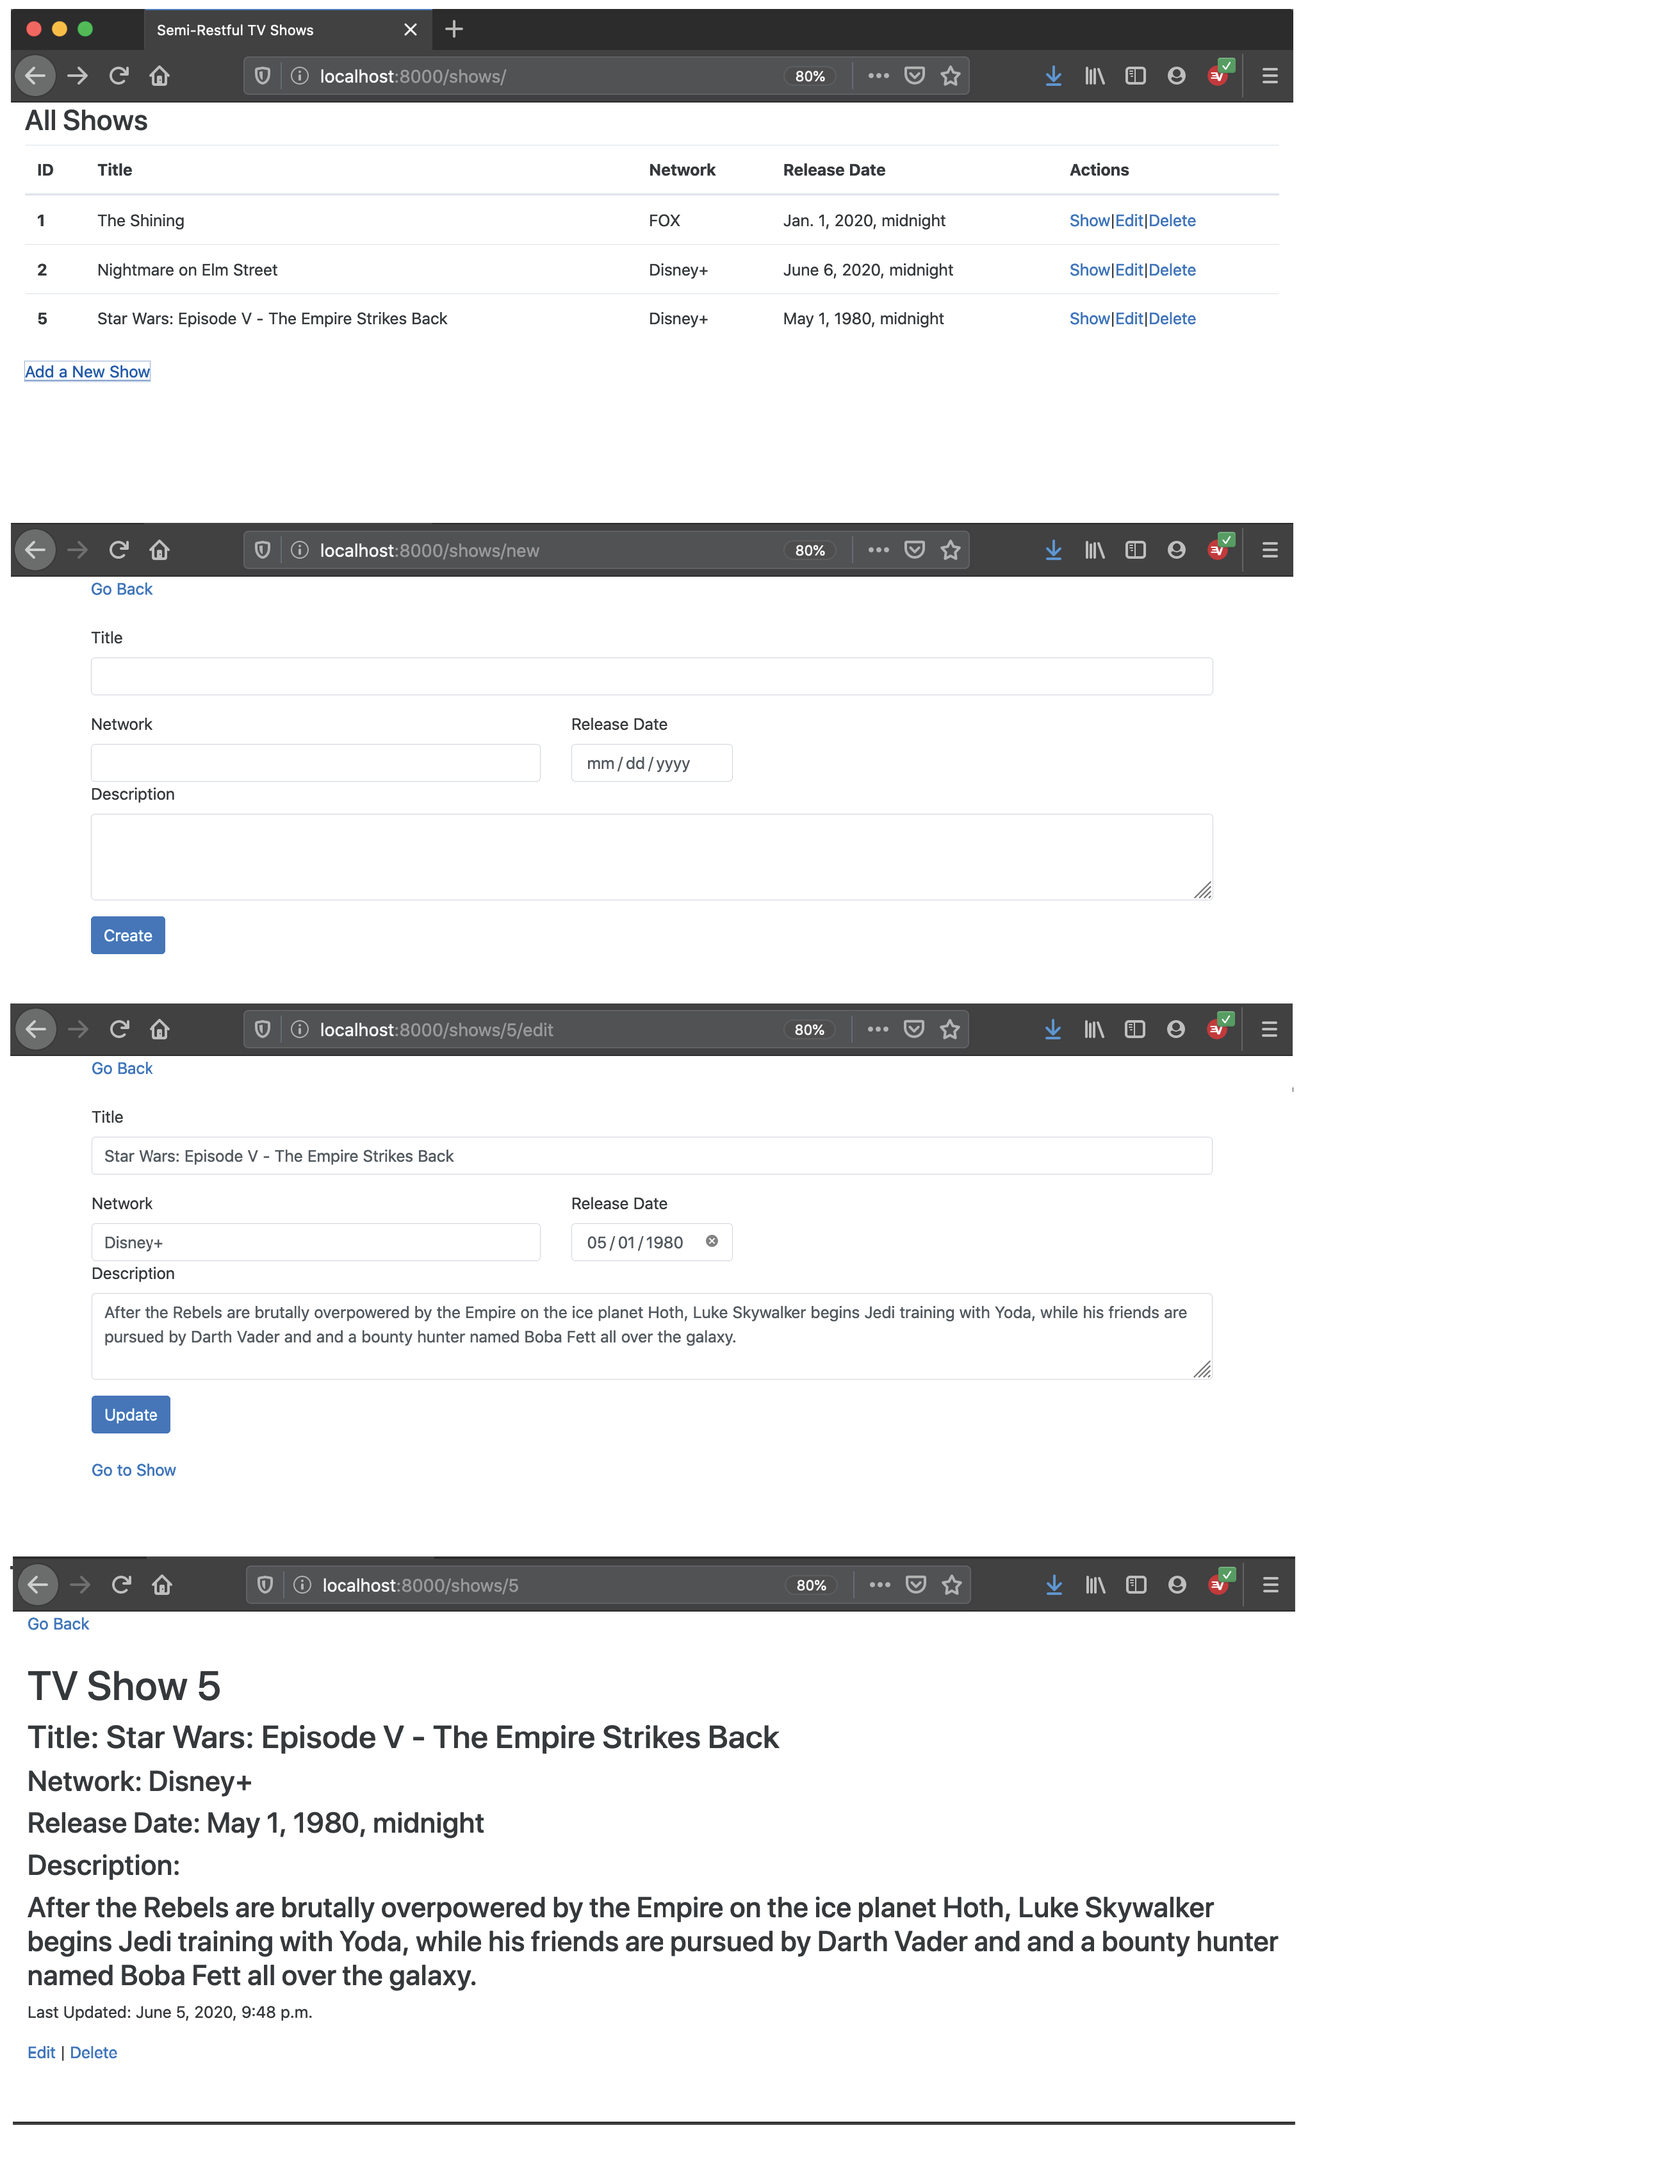
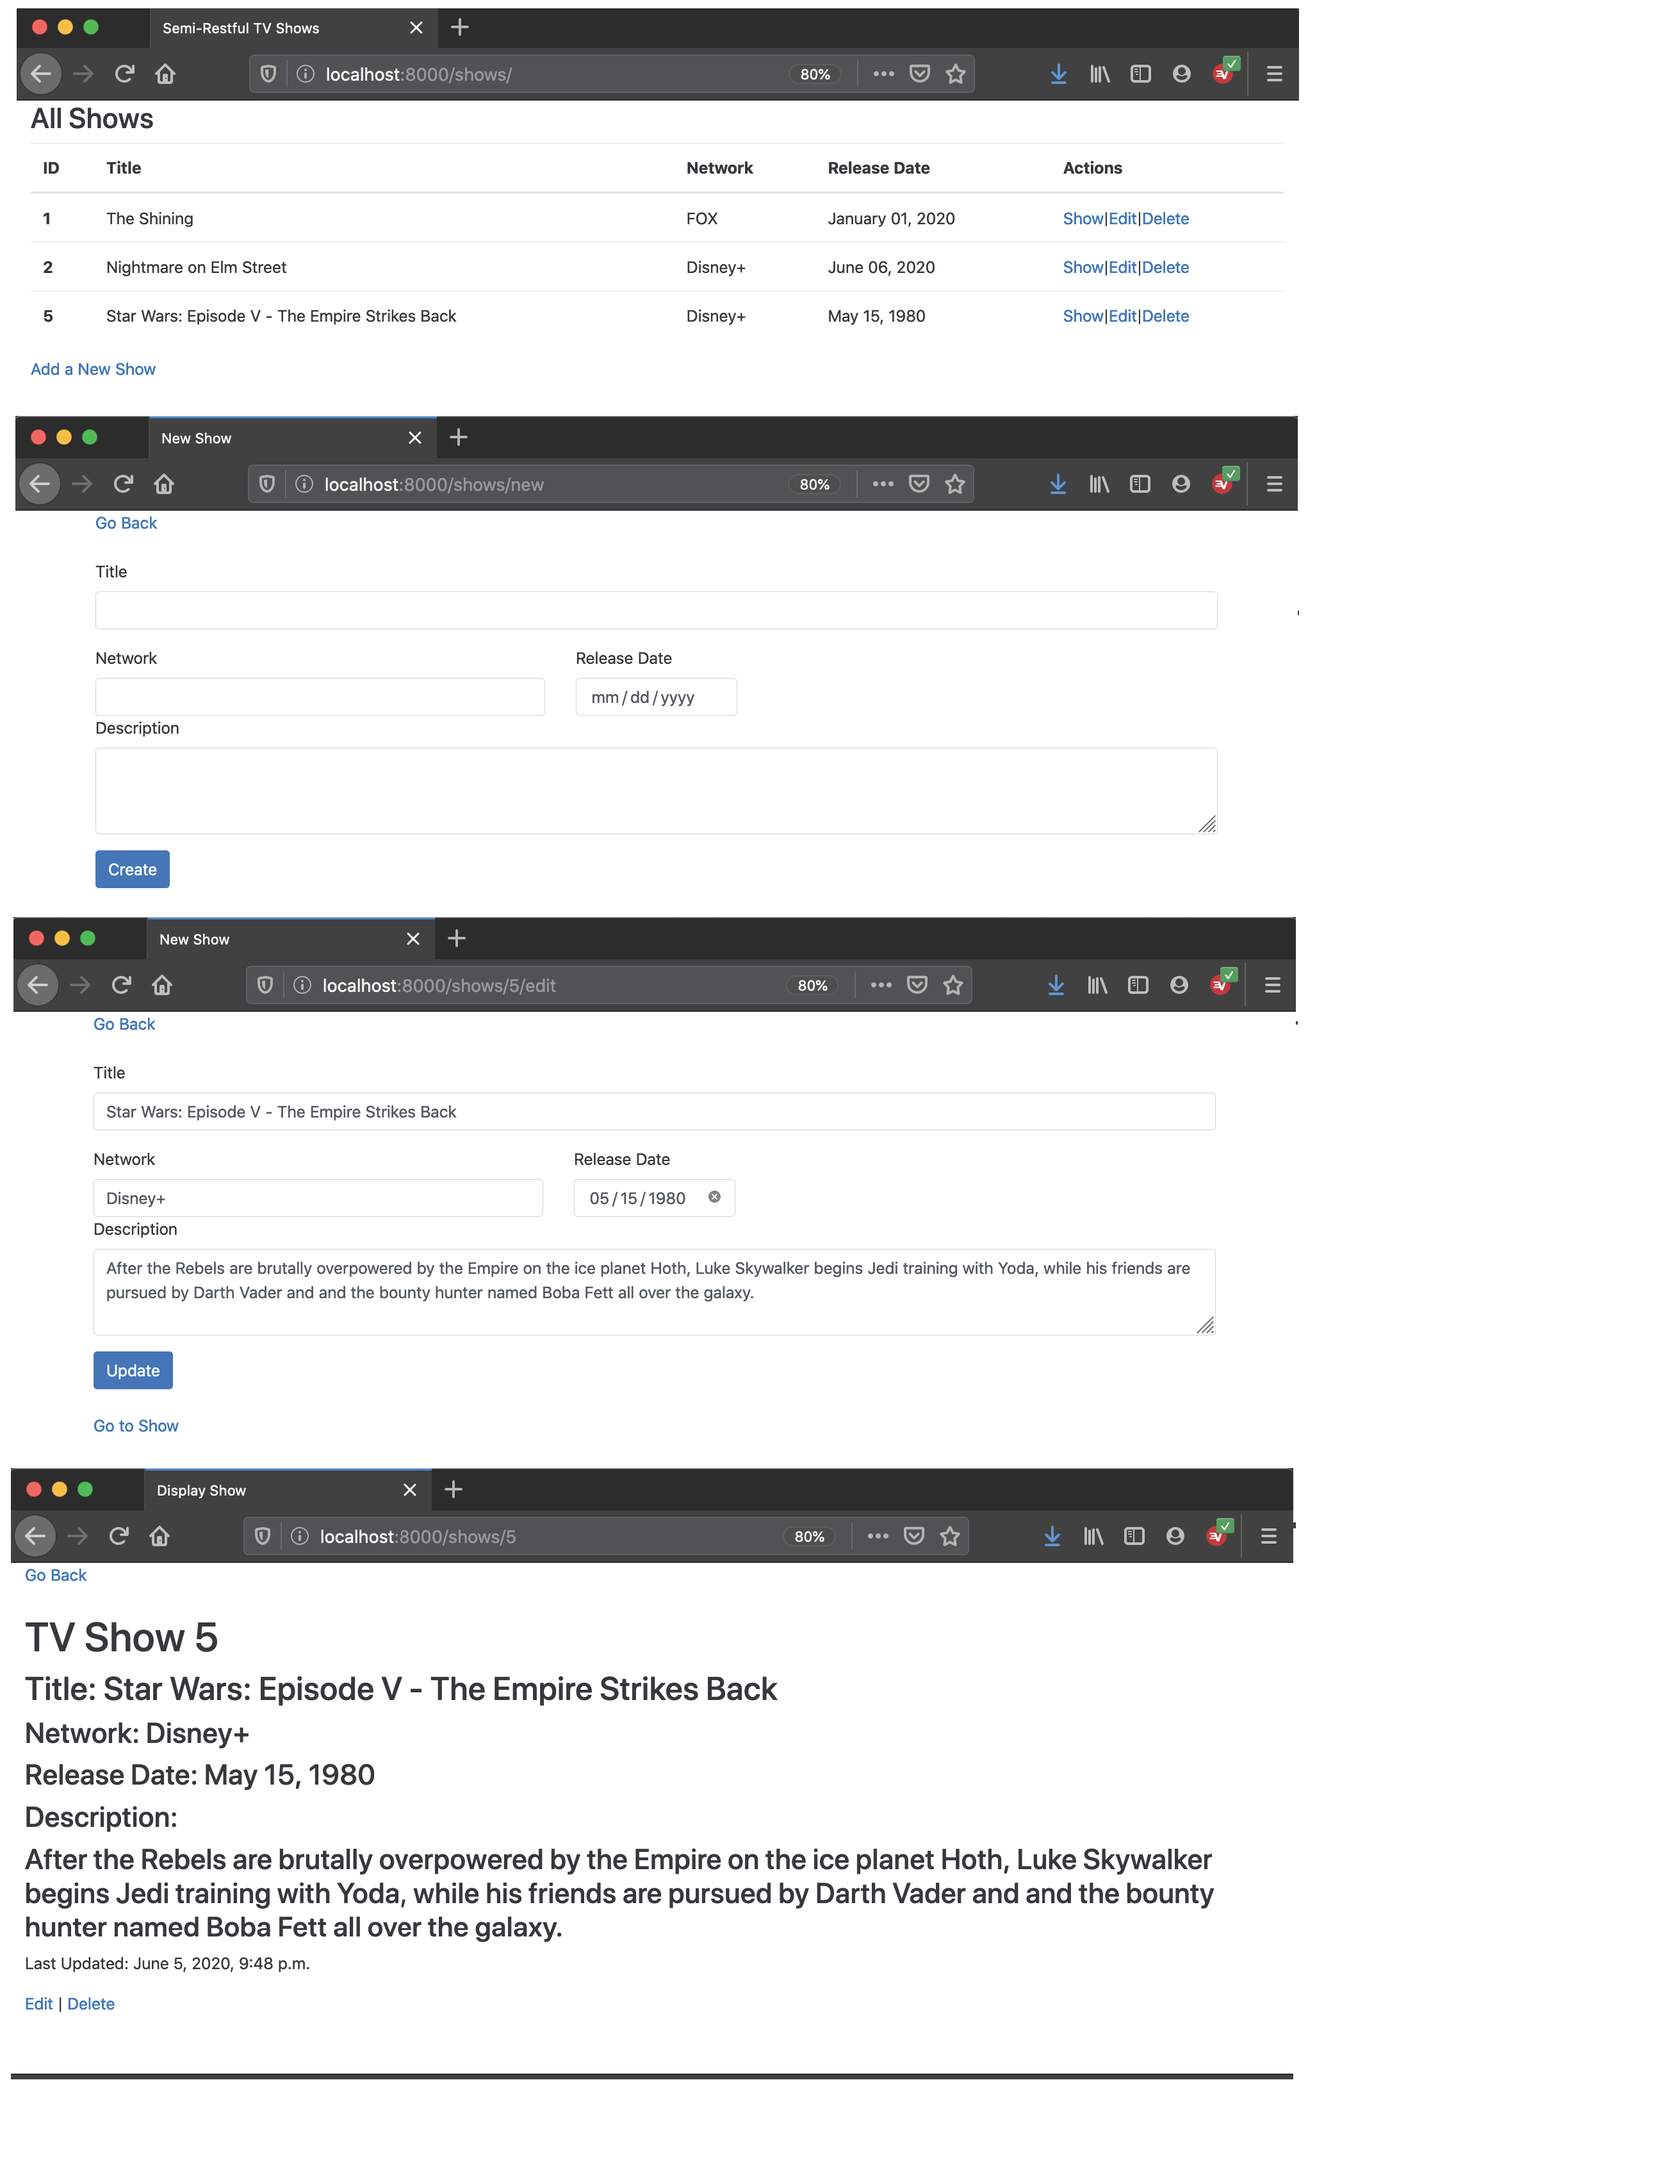
Add support for propert release_date formatting. Add my_finished_projects.png

diff --git a/python_stack/django/django_intro/semi_restful_tv_shows/shows/templates/index.html b/python_stack/django/django_intro/semi_restful_tv_shows/shows/templates/index.html
@@ -28,7 +28,7 @@
                     <th scope="row">{{ show.id }}</th>
                     <td>{{ show.title }}</td>
                     <td>{{ show.network }}</td>
-                    <td>{{ show.release_date }}</td>
+                    <td>{{ show.release_date|date:"F d, Y" }}</td>
                     <td><a href="/shows/{{ show.id }}">Show</a>|<a href="/shows/{{ show.id }}/edit">Edit</a>|<a
                             href="/shows/{{ show.id }}/delete">Delete</a></td>
                 </tr>
